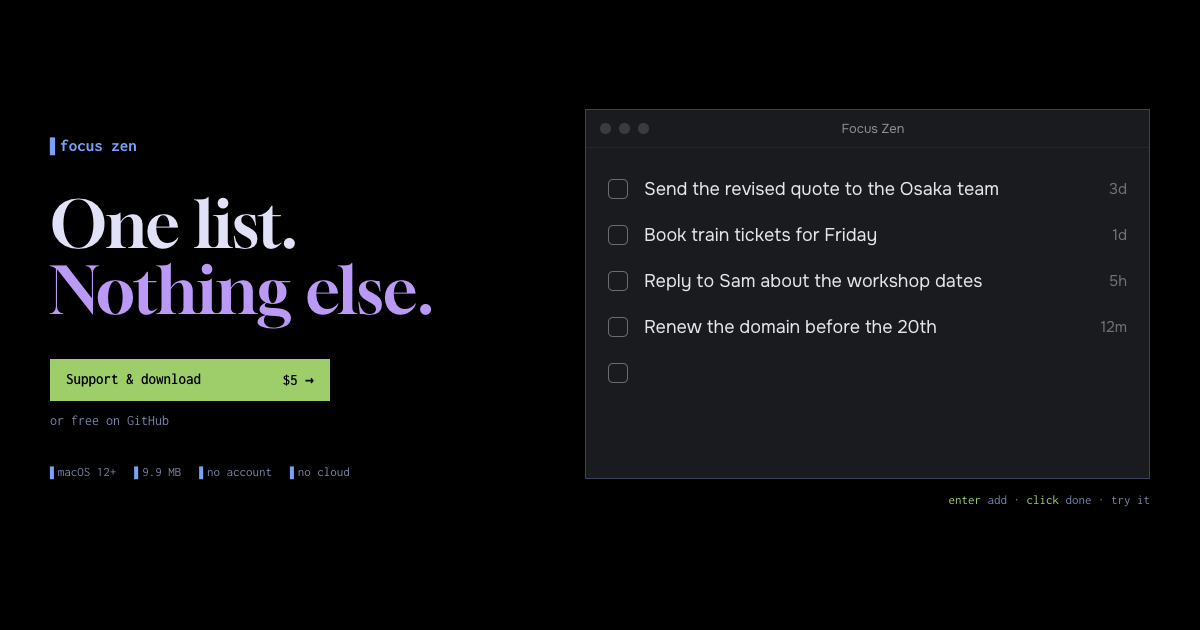
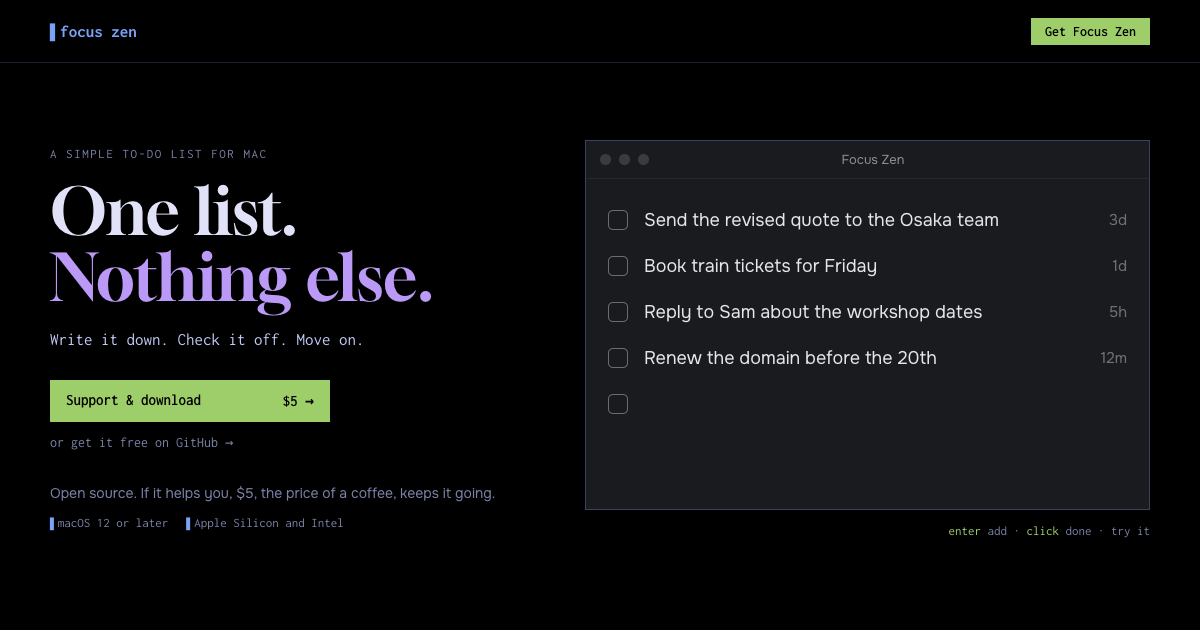
Site: top bar with Get Focus Zen; the old hero's words back
- A sticky bar, as Clarity's: the mark left, "Get Focus Zen" right
  (to #get). /thanks and the 404 page use the same bar.
- The hero gets back its label, "Write it down. Check it off. Move on.",
  the $5 note and the system line, in the new style.
- og.png taken again from the new hero.

diff --git a/site/index.html b/site/index.html
@@ -32,22 +32,33 @@
     <script type="module" src="./src/try-list.js"></script>
   </head>
   <body>
-    <header class="hero wrap" id="top">
-      <div class="hero-text">
+    <header class="bar" id="top">
+      <div class="bar-inner wrap">
         <a class="mark" href="/">▌focus zen</a>
-        <h1 class="title">One list. <em>Nothing else.</em></h1>
+        <a class="bar-go" href="#get">Get Focus Zen</a>
+      </div>
+    </header>
+
+    <section class="hero wrap">
+      <div class="hero-text">
+        <div class="hero-head">
+          <p class="eyebrow">A simple to-do list for Mac</p>
+          <h1 class="title">One list. <em>Nothing else.</em></h1>
+          <p class="hero-lede">Write it down. Check it off. Move on.</p>
+        </div>
         <div class="actions">
           <a class="go" href="https://buy.stripe.com/dRm28r1J49lh5h78uq9k403"
             ><span>Support &amp; download</span><span>$5 →</span></a
           >
-          <a class="soft" href="https://github.com/adusingi/focus-zen/releases/latest">or free on GitHub</a>
+          <a class="soft" href="https://github.com/adusingi/focus-zen/releases/latest">or get it free on GitHub →</a>
         </div>
-        <ul class="meta">
-          <li>macOS 12+</li>
-          <li>9.9 MB</li>
-          <li>no account</li>
-          <li>no cloud</li>
-        </ul>
+        <div class="hero-foot">
+          <p class="hero-note">Open source. If it helps you, $5, the price of a coffee, keeps it going.</p>
+          <ul class="meta">
+            <li>macOS 12 or later</li>
+            <li>Apple Silicon and Intel</li>
+          </ul>
+        </div>
       </div>
       <div class="hero-media">
         <!-- The Focus Zen window. try-list.js makes it work; without it, it is a picture. -->
@@ -63,7 +74,7 @@
         </figure>
         <p class="try-hint"><kbd>enter</kbd> add · <kbd>click</kbd> done · try it</p>
       </div>
-    </header>
+    </section>
 
     <main>
       <section class="step wrap">

diff --git a/site/src/base.css b/site/src/base.css
@@ -33,6 +33,7 @@
 
 html {
   scroll-behavior: smooth;
+  scroll-padding-top: 63px; /* the sticky bar */
 }
 
 body {
@@ -74,6 +75,38 @@ img {
   font: 700 17px var(--mono);
   color: var(--accent);
   text-decoration: none;
+}
+
+/* The top bar, as Clarity's: the mark left, one small green action right, sticky
+   over a blurred black. */
+.bar {
+  position: sticky;
+  top: 0;
+  z-index: 5;
+  border-bottom: 1px solid var(--line);
+  background: rgba(0, 0, 0, 0.85);
+  backdrop-filter: blur(8px);
+  -webkit-backdrop-filter: blur(8px);
+}
+
+.bar-inner {
+  display: flex;
+  align-items: center;
+  justify-content: space-between;
+  gap: 24px;
+  min-height: 62px;
+}
+
+.bar-go {
+  padding: 6px 14px;
+  background: var(--go);
+  color: var(--bg);
+  font: 600 14px var(--mono);
+  text-decoration: none;
+}
+
+.bar-go:hover {
+  filter: brightness(1.08);
 }
 
 /* Titles: the second half in purple, as Clarity's title line. */

diff --git a/site/src/home.css b/site/src/home.css
@@ -9,7 +9,8 @@
   grid-template-columns: minmax(0, 5fr) minmax(0, 6fr);
   align-items: center;
   gap: 64px;
-  min-height: min(100vh, 860px);
+  /* One screen under the 63px bar, but never a vast one. */
+  min-height: min(calc(100vh - 63px), 820px);
   padding-top: 48px;
   padding-bottom: 64px;
 }
@@ -17,13 +18,34 @@
 .hero-text {
   display: grid;
   justify-items: start;
-  gap: 36px;
+  gap: 32px;
+}
+
+.hero-head .eyebrow {
+  margin-bottom: 18px;
 }
 
 .title {
   margin: 0;
   font: 400 clamp(48px, 5.4vw, 76px) / 1.02 var(--serif);
   color: var(--bright);
+}
+
+.hero-lede {
+  margin: 20px 0 0;
+  color: var(--text);
+  font: 17px var(--mono);
+}
+
+.hero-foot {
+  display: grid;
+  gap: 10px;
+}
+
+.hero-note {
+  margin: 0;
+  color: var(--dim);
+  font-size: 14px;
 }
 
 .title em {

diff --git a/site/thanks.html b/site/thanks.html
@@ -15,7 +15,7 @@
     <link rel="stylesheet" href="./src/thanks.page.css" />
   </head>
   <body>
-    <header class="top wrap"><a class="mark" href="/">▌focus zen</a></header>
+    <header class="bar"><div class="bar-inner wrap"><a class="mark" href="/">▌focus zen</a></div></header>
 
     <main class="note wrap">
       <img class="note-icon" src="./src/assets/icon-512.png" alt="" width="96" height="96" />

diff --git a/site/404.html b/site/404.html
@@ -10,7 +10,7 @@
     <link rel="stylesheet" href="./src/thanks.page.css" />
   </head>
   <body>
-    <header class="top wrap"><a class="mark" href="/">▌focus zen</a></header>
+    <header class="bar"><div class="bar-inner wrap"><a class="mark" href="/">▌focus zen</a></div></header>
 
     <main class="note wrap">
       <p class="eyebrow">404</p>

diff --git a/site/src/thanks.css b/site/src/thanks.css
@@ -1,10 +1,4 @@
-/* /thanks and the 404 page: the mark, then one centred note. */
-
-.top {
-  padding-top: 24px;
-  padding-bottom: 24px;
-  border-bottom: 1px solid var(--line);
-}
+/* /thanks and the 404 page: the bar (base.css), then one centred note. */
 
 .note {
   display: grid;
